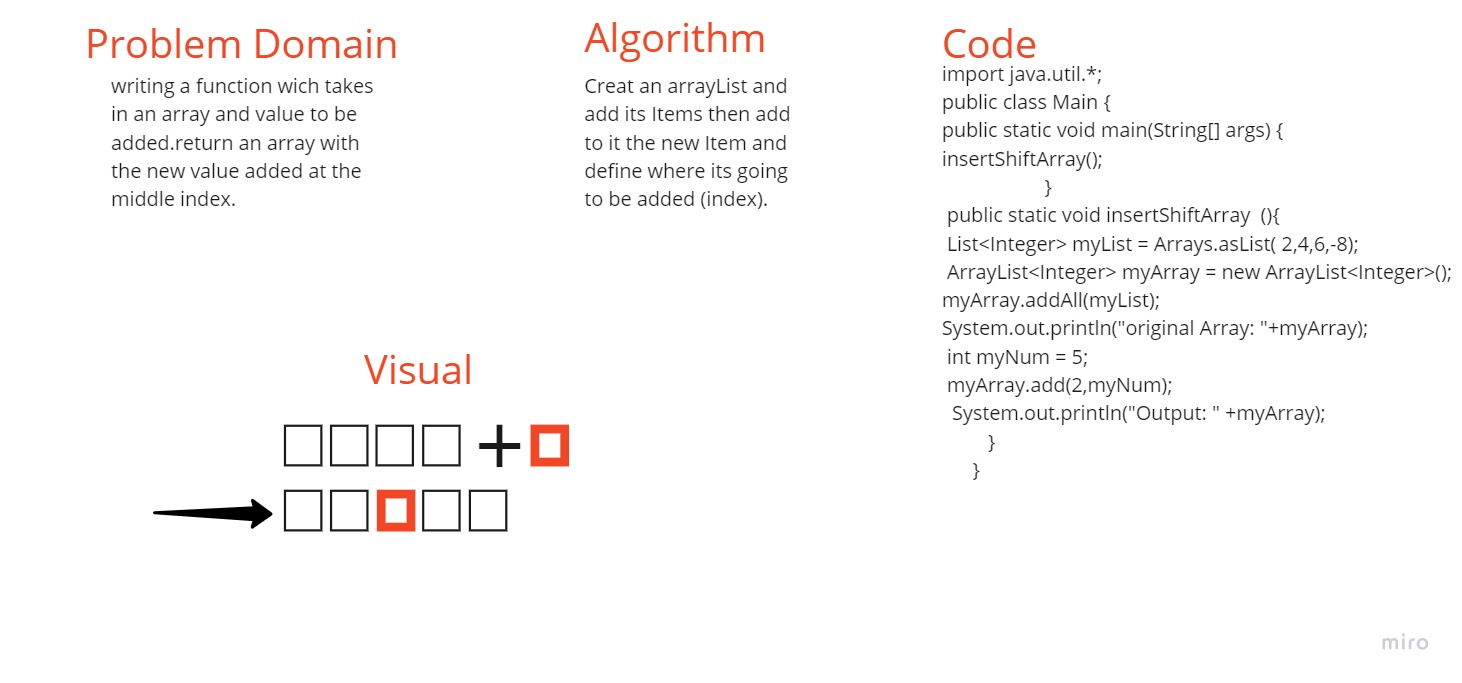
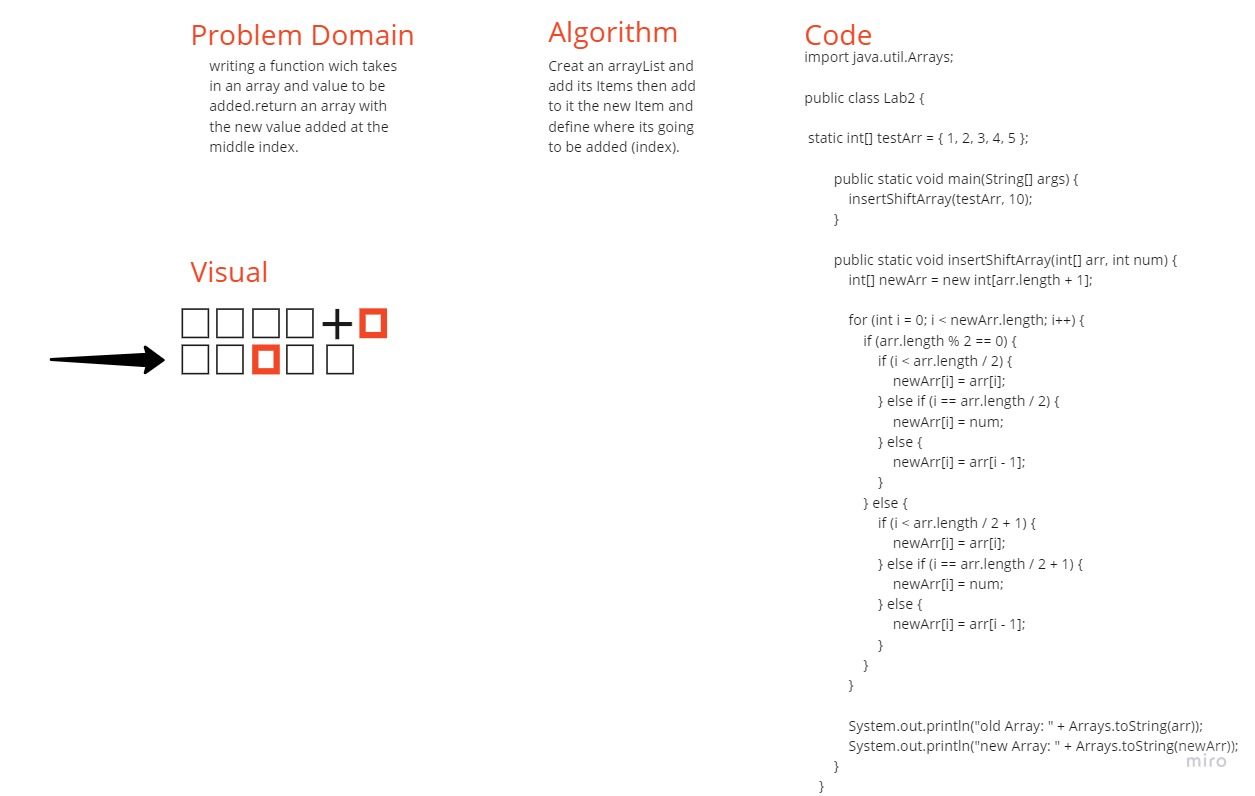
resolve lab 2

diff --git a/array-insert-shift/Rechellenge.java b/array-insert-shift/Rechellenge.java
@@ -1,16 +1,40 @@
-import java.util.*;
-class Rechallenge {
-    public static void main(String[] args) {
-        insertShiftArray();
-    }
-    public static void insertShiftArray  (){
-        List<Integer> myList = Arrays.asList( 2,4,6,-8);
-        ArrayList<Integer> myArray = new ArrayList<Integer>();
-        myArray.addAll(myList);
-        System.out.println("original Array: "+myArray);
-        int myNum = 5;
-        myArray.add(2,myNum);
-        System.out.println("Output: " +myArray);
 
-    }
-}
+import java.util.Arrays;
+class Rechallenge {
+    
+
+ 
+    
+            static int[] testArr = { 1, 2, 3, 4, 5 };
+    
+            public static void main(String[] args) {
+                insertShiftArray(testArr, 10);
+            }
+    
+            public static void insertShiftArray(int[] arr, int num) {
+                int[] newArr = new int[arr.length + 1];
+    
+                for (int i = 0; i < newArr.length; i++) {
+                    if (arr.length % 2 == 0) {
+                        if (i < arr.length / 2) {
+                            newArr[i] = arr[i];
+                        } else if (i == arr.length / 2) {
+                            newArr[i] = num;
+                        } else {
+                            newArr[i] = arr[i - 1];
+                        }
+                    } else {
+                        if (i < arr.length / 2 + 1) {
+                            newArr[i] = arr[i];
+                        } else if (i == arr.length / 2 + 1) {
+                            newArr[i] = num;
+                        } else {
+                            newArr[i] = arr[i - 1];
+                        }
+                    }
+                }
+    
+                System.out.println("old Array: " + Arrays.toString(arr));
+                System.out.println("new Array: " + Arrays.toString(newArr));
+            }
+        }
